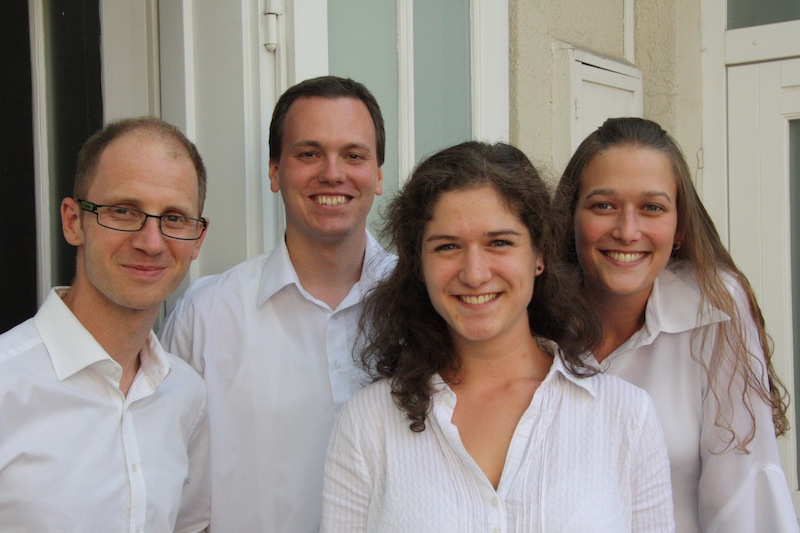
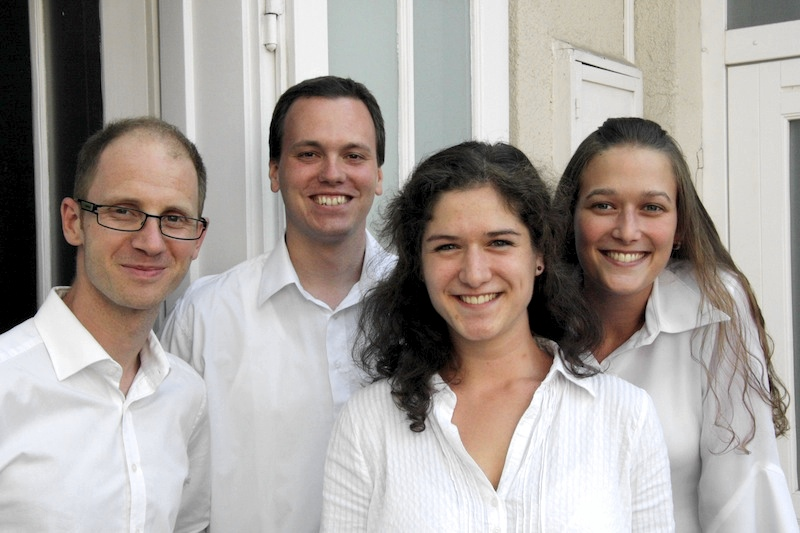
a

diff --git a/app/webroot/css/main.css b/app/webroot/css/main.css
@@ -364,7 +364,7 @@ text-align: center;
 #collegue #main img{
     margin: 0 auto;
     display: block;
-    max-width: 100%;
+    max-width: 300px;
 }
 
 #collegue #main h3{
